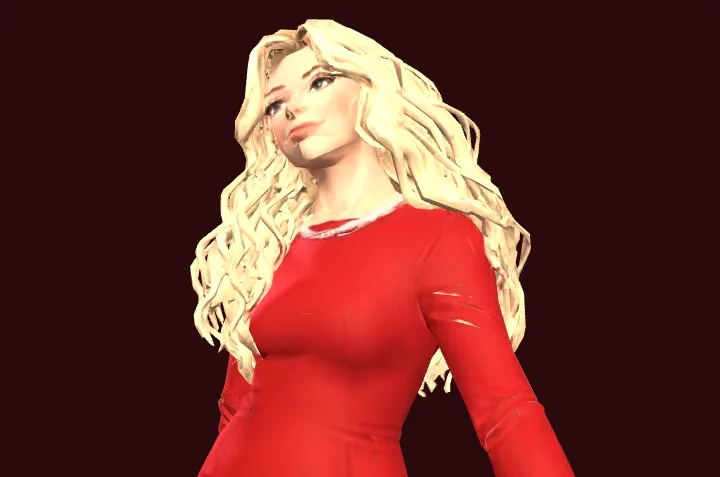
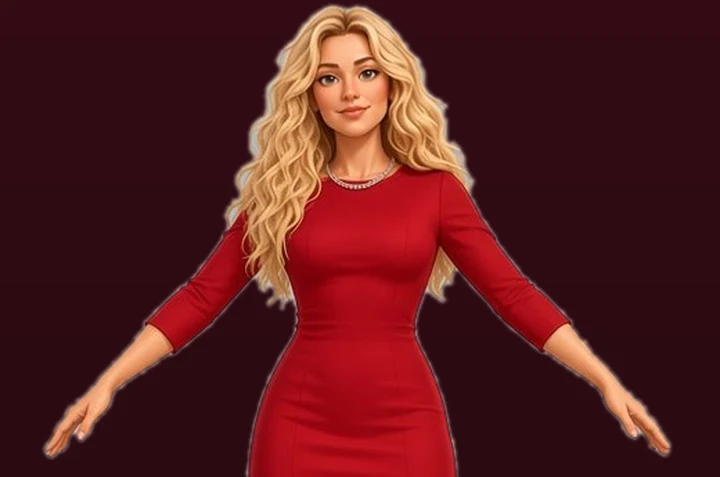
Кошки не ходят сквозь декор, новый портрет Мизулины
- Гуляющие (кошки, девушки) идут перед выступами домов и разворачиваются перед ступенями, урнами и киосками.
- Портрет Мизулины — из нового арта (фон заменён на тёмный).

Claude-Session: https://claude.ai/code/session_011AfLC3NSosYLNDMRR5Vo6k

diff --git a/js/world.js b/js/world.js
@@ -1261,7 +1261,7 @@ export class World {
         Object.assign(g.userData, { billboard: false, swapped: true, mixer: npc.userData.mixer, npc: "girl" });
         if (walking) { // гуляют своей дорожкой у стен — там ничего не стоит (банкоматы, урны, посты — ближе к дороге)
             const dir = pick([-1, 1]);
-            g.position.x = Math.sign(g.position.x) * rnd(5.6, 6.0);
+            g.position.x = Math.sign(g.position.x) * rnd(5.25, 5.4); // перед выступами домов (они с 5.7)
             delete g.userData.foot;
             g.userData.walk = dir * cfg.speed * rnd(0.8, 1.2);
             g.rotation.y = dir > 0 ? 0 : Math.PI; // модель смотрит в +Z
@@ -1271,10 +1271,44 @@ export class World {
         if (!this.critters.includes(g)) this.critters.push(g);
     }
 
+    // низкие части декора на тротуаре у стен (ступени, выступы, урны) — коробки относительно своего объекта, считаются один раз
+    walkBoxes(o) {
+        if (o.userData.walkBoxes) return o.userData.walkBoxes;
+        const out = [];
+        o.updateMatrixWorld(true);
+        const b = new THREE.Box3();
+        o.traverse((m) => {
+            if (!m.isMesh || m.isSkinnedMesh || m.isInstancedMesh) return;
+            b.setFromObject(m);
+            if (b.isEmpty() || b.min.y > 0.6 || b.max.y < 0.12) return; // выше головы кота или плоское покрытие
+            const band = (lo, hi) => b.max.x > lo && b.min.x < hi;
+            if (!band(4.8, 6.6) && !band(-6.6, -4.8)) return; // не на дорожке у стен
+            out.push({ x0: b.min.x, x1: b.max.x, z0: b.min.z - o.position.z, z1: b.max.z - o.position.z });
+        });
+        return (o.userData.walkBoxes = out);
+    }
+
+    // гуляющий упрётся в декор в ближайшие ~0.6 м?
+    walkBlocked(w) {
+        const hit = (z) => {
+            const x = w.position.x;
+            for (const o of this.scenery) {
+                if (o === w || o.userData.walk !== undefined) continue;
+                for (const b of this.walkBoxes(o)) {
+                    if (x > b.x0 - 0.25 && x < b.x1 + 0.25 && z > o.position.z + b.z0 - 0.1 && z < o.position.z + b.z1 + 0.1) return true;
+                }
+            }
+            for (const o of this.obstacles) if (Math.abs(o.position.z - z) < 0.6 && Math.abs(o.position.x - x) < 0.7) return true; // урны, банкоматы у тротуара
+            return false;
+        };
+        // уже стоит внутри (так появился) — идёт дальше, чтобы выйти, а не дёргается на месте
+        return !hit(w.position.z) && hit(w.position.z + Math.sign(w.userData.walk) * 0.6);
+    }
+
     makeCat(m, cfg) {
         const side = pick([-1, 1]), dir = pick([-1, 1]);
         const cat = this.rig(m, cfg.walk);
-        cat.position.set(side * rnd(5.6, 6.1), 0.18, BEHIND_Z - rnd(0, STREET_LEN)); // дорожка у стен, как у гуляющих
+        cat.position.set(side * rnd(5.25, 5.4), 0.18, BEHIND_Z - rnd(0, STREET_LEN)); // дорожка у стен, как у гуляющих
         cat.userData.walk = dir * cfg.speed * rnd(0.8, 1.2);
         cat.userData.npc = "cat";
         cat.rotation.y = dir > 0 ? 0 : Math.PI;
@@ -1940,8 +1974,16 @@ export class World {
 
         // скелетная анимация только у тех, кто рядом и впереди (дальше — туман)
         for (const o of this.officers) if (o.position.z > -70 && o.position.z < 8) o.userData.mixer.update(dt);
+        this.walkCheck = (this.walkCheck || 0) + 1;
         for (const o of this.critters) {
-            if (o.userData.walk) o.position.z += o.userData.walk * dt; // гуляют вдоль тротуара
+            if (o.userData.walk) {
+                // впереди ступени, выступ или урна — разворачивается (проверка раз в 8 кадров), а не идёт сквозь
+                if (this.walkCheck % 8 === 0 && o.position.z > -80 && o.position.z < 10 && this.walkBlocked(o)) {
+                    o.userData.walk *= -1;
+                    o.rotation.y = o.userData.walk > 0 ? 0 : Math.PI;
+                }
+                o.position.z += o.userData.walk * dt; // гуляют вдоль тротуара
+            }
             if (o.visible && o.position.z > -70 && o.position.z < 8) o.userData.mixer?.update(dt);
         }
         this.updateFlocks(dt, t);

diff --git a/js/config.js b/js/config.js
@@ -718,7 +718,7 @@ export const FIGHTERS = {
             examKo: "Сдал. Дальше уже не игра, а твой первый шаг." } },
     // Мизулина — свои 13 боевых клипов (idle_fight, jab, cross, hook, uppercut, low/high/spin/jump_kick, block, hit, ko, win).
     // Уклона в наборе нет — им служит начало отдачи hit. Дрейф клипов гасит закрепление бёдер в бою.
-    mizulina: { name: "Мизулина", short: "Мизулина", she: true, model: "models/mizulina_fight.glb?v=3", height: 1.72, foot: 0.06, portrait: "img/heroes/mizulina.webp", hp: 95, splash: { h: 62, fx: 0.46, fy: 0.22 },
+    mizulina: { name: "Мизулина", short: "Мизулина", she: true, model: "models/mizulina_fight.glb?v=3", height: 1.72, foot: 0.06, portrait: "img/heroes/mizulina.webp?v=2", hp: 95, splash: { h: 62, fx: 0.5, fy: 0.2 },
         koHold: 0.98, // нокаут: лежит в последнем кадре
         moves: { idle: { clip: "idle_fight", from: 0, to: 1.66, loop: true }, // живая стойка
             jab: { clip: "jab", from: 0.25, to: 1.0, hit: 0.53, speed: 1 },
